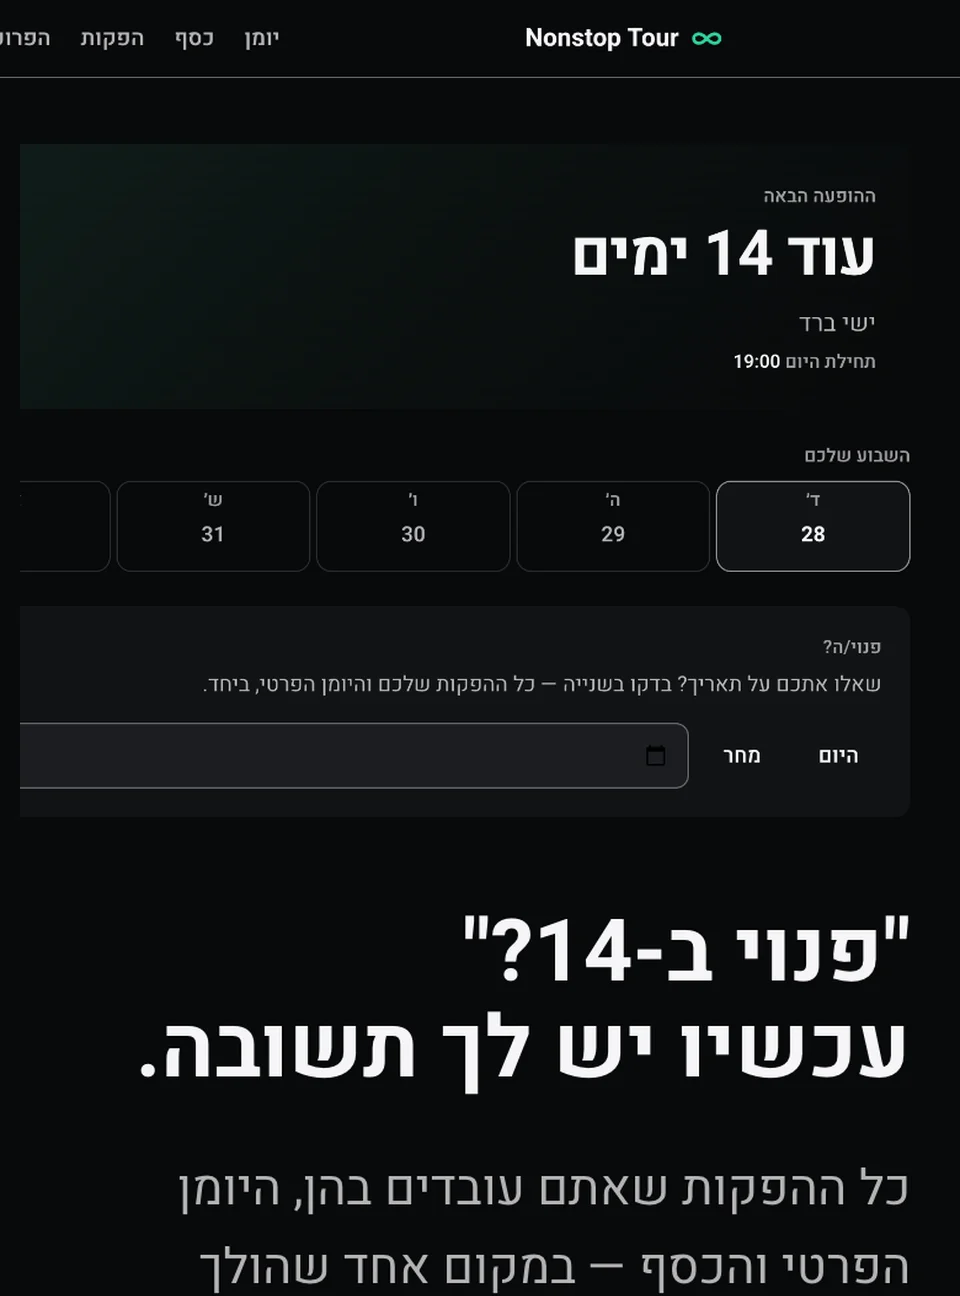
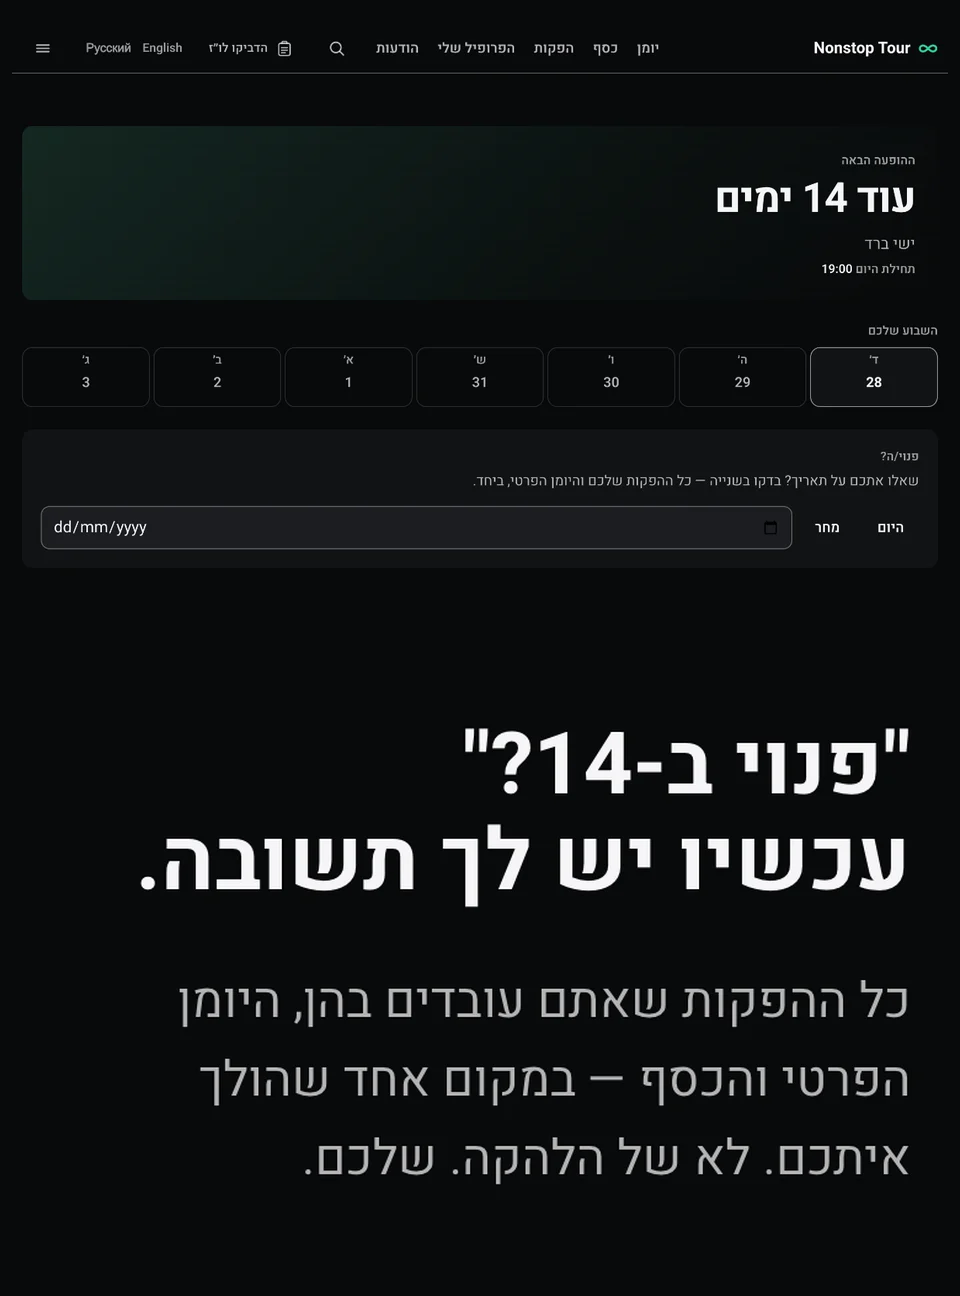
Recrop card backs so no text is cut
Claude-Session: https://claude.ai/code/session_01JhJDeo9zSSRfaDiWBe2EDZ

diff --git a/index.html b/index.html
@@ -260,9 +260,9 @@ footer .wrap{display:flex;justify-content:space-between;align-items:center;flex-
     <span class="eyebrow reveal">עוד פרויקטים</span>
     <h2 class="reveal">אתרים ומערכות שבניתי</h2>
     <div class="projects">
-      <a class="proj reveal" href="https://nonstop-tour-app.vercel.app/he" target="_blank" rel="noopener"><div class="frame flip"><div class="card"><div class="face front"><img src="img/nonstop-front.webp" alt="Nonstop Tour" loading="lazy" width="480" height="648"></div><div class="face back"><img src="img/nonstop-back.webp" alt="הדאשבורד של אפליקציית Nonstop Tour" loading="lazy" width="480" height="648"></div></div></div><b>Nonstop Tour</b><p>אפליקציה לאנשי הפקה בישראל: נגנים, סאונד, תאורה ומנהלי הפקה. הופעות, ציוד, ריידר ותשלומים במקום אחד, מסונכרן ליומן Google.</p><span>לצפייה<svg width="14" height="14" aria-hidden="true"><use href="#arrow"/></svg></span></a>
-      <a class="proj reveal" href="https://bana-villa.com/" target="_blank" rel="noopener"><div class="frame flip"><div class="card"><div class="face front"><img src="img/bana-villa.webp" alt="אתר Bána Villa" loading="lazy" width="480" height="648"></div><div class="face back"><img src="img/bana-back.webp" alt="וילות Bána Villa עם בריכה" loading="lazy" width="480" height="648"></div></div></div><b>Bána Villa</b><p>אתר לפרויקט של 22 וילות בוטיק עם בריכה בקופנגן, תאילנד, לקונים מישראל.</p><span>לצפייה<svg width="14" height="14" aria-hidden="true"><use href="#arrow"/></svg></span></a>
-      <a class="proj reveal" href="https://hidden-hin.com/" target="_blank" rel="noopener"><div class="frame flip"><div class="card"><div class="face front"><img src="img/hidden-hin.webp" alt="אתר Hidden Hin" loading="lazy" width="480" height="648"></div><div class="face back"><img src="img/hidden-back.webp" alt="וילות Hidden Hin" loading="lazy" width="480" height="648"></div></div></div><b>Hidden Hin</b><p>אתר ל-33 וילות עם בריכה פרטית ומועדון, עם מחירים בבאט, דולר ושקל.</p><span>לצפייה<svg width="14" height="14" aria-hidden="true"><use href="#arrow"/></svg></span></a>
+      <a class="proj reveal" href="https://nonstop-tour-app.vercel.app/he" target="_blank" rel="noopener"><div class="frame flip"><div class="card"><div class="face front"><img src="img/nonstop-front.webp" alt="Nonstop Tour" loading="lazy" width="480" height="648"></div><div class="face back"><img src="img/nonstop-back.webp?v=2" alt="הדאשבורד של אפליקציית Nonstop Tour" loading="lazy" width="480" height="648"></div></div></div><b>Nonstop Tour</b><p>אפליקציה לאנשי הפקה בישראל: נגנים, סאונד, תאורה ומנהלי הפקה. הופעות, ציוד, ריידר ותשלומים במקום אחד, מסונכרן ליומן Google.</p><span>לצפייה<svg width="14" height="14" aria-hidden="true"><use href="#arrow"/></svg></span></a>
+      <a class="proj reveal" href="https://bana-villa.com/" target="_blank" rel="noopener"><div class="frame flip"><div class="card"><div class="face front"><img src="img/bana-villa.webp" alt="אתר Bána Villa" loading="lazy" width="480" height="648"></div><div class="face back"><img src="img/bana-back.webp?v=2" alt="וילות Bána Villa עם בריכה" loading="lazy" width="480" height="648"></div></div></div><b>Bána Villa</b><p>אתר לפרויקט של 22 וילות בוטיק עם בריכה בקופנגן, תאילנד, לקונים מישראל.</p><span>לצפייה<svg width="14" height="14" aria-hidden="true"><use href="#arrow"/></svg></span></a>
+      <a class="proj reveal" href="https://hidden-hin.com/" target="_blank" rel="noopener"><div class="frame flip"><div class="card"><div class="face front"><img src="img/hidden-hin.webp" alt="אתר Hidden Hin" loading="lazy" width="480" height="648"></div><div class="face back"><img src="img/hidden-back.webp?v=2" alt="המועדון של Hidden Hin" loading="lazy" width="480" height="648"></div></div></div><b>Hidden Hin</b><p>אתר ל-33 וילות עם בריכה פרטית ומועדון, עם מחירים בבאט, דולר ושקל.</p><span>לצפייה<svg width="14" height="14" aria-hidden="true"><use href="#arrow"/></svg></span></a>
       <a class="proj reveal" href="demo/site-diary/" target="_blank" rel="noopener"><div class="frame flip"><div class="card"><div class="face front"><img src="img/belectric-front.webp" alt="יומן אתר" loading="lazy" width="480" height="648"></div><div class="face back"><img src="img/belectric.webp?v=2" alt="אפליקציית יומן אתר, גרסת הדגמה" loading="lazy" width="480" height="648"></div></div></div><b>יומן אתר ל-BELECTRIC</b><p>אפליקציה לניהול אתר הקמה של שדה סולארי: תעודות משלוח שה-AI קורא, מלאי, ניפוק לקבלנים עם חתימה, בטון, פאנלים ויומיות.</p><span>לצפייה בדמו, נתונים בדויים<svg width="14" height="14" aria-hidden="true"><use href="#arrow"/></svg></span></a>
       <div class="proj reveal"><div class="frame flip"><div class="card"><div class="face front"><img src="img/kikar-front.webp" alt="כיכר העיר" loading="lazy" width="480" height="648"></div><div class="face back"><img src="img/kikar.webp" alt="דפי נחיתה לפרויקט כיכר העיר" loading="lazy" width="480" height="648"></div></div></div><b>כיכר העיר</b><p>דפי נחיתה והרשמה לתוכנית תרבות דיגיטלית בשיתוף רשויות, עבור תטא הפקות. במשך חצי שנה, 50 דפים בשבוע: דף לכל יום, ל-10 ערים.</p></div>
     </div>
